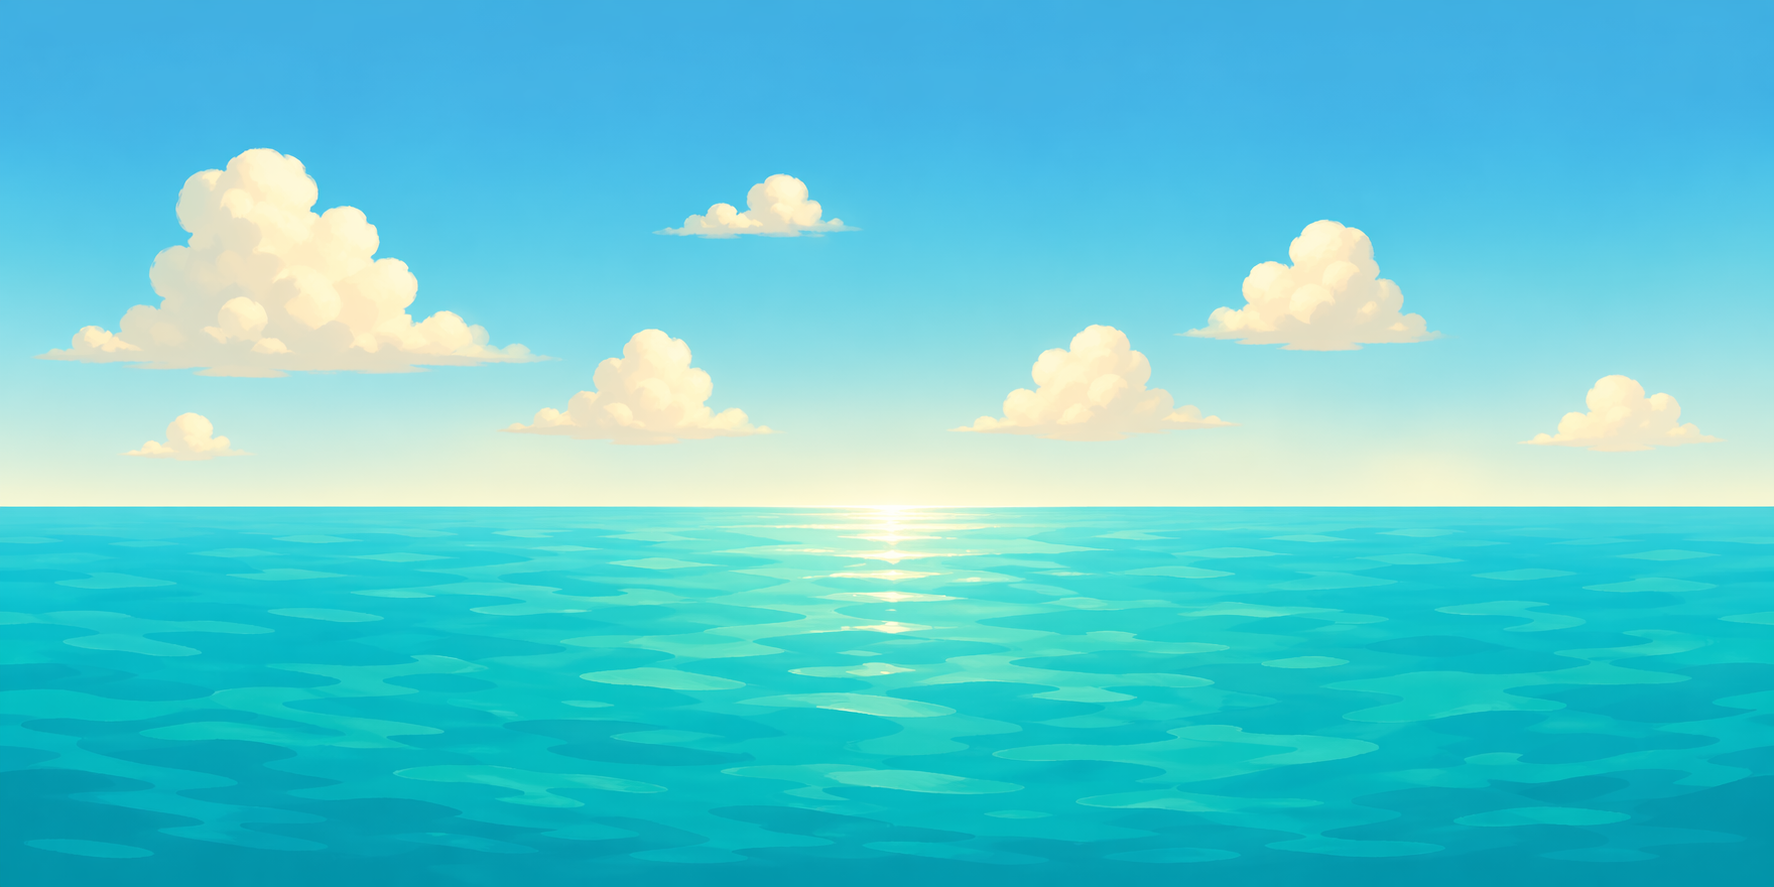
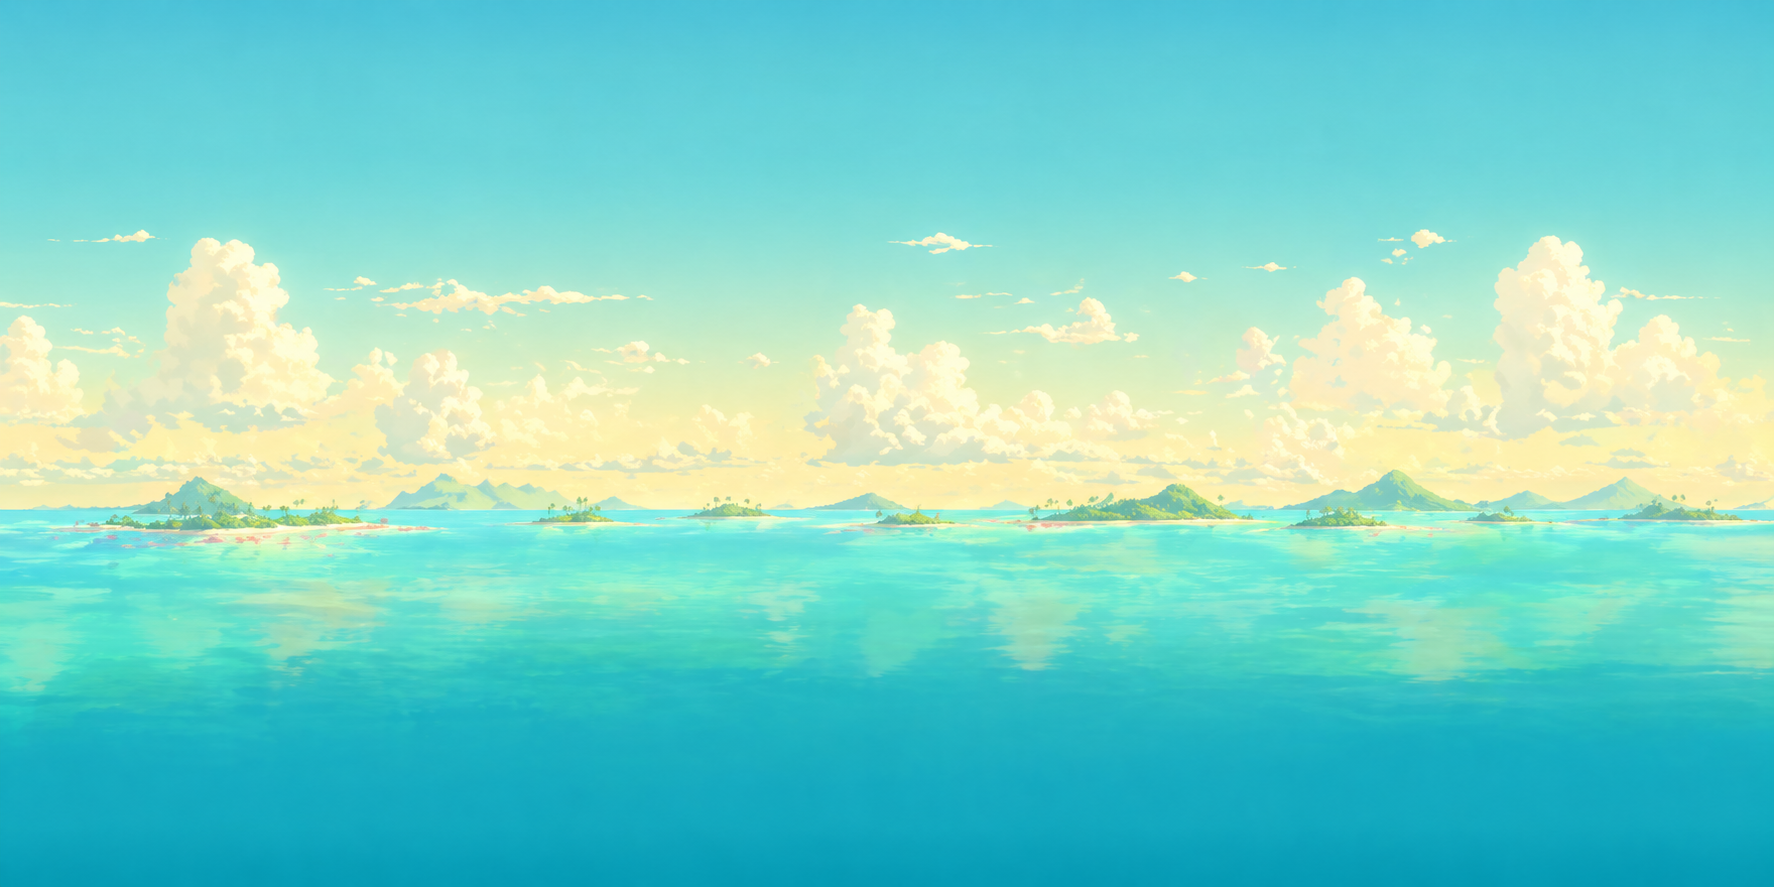
feat(scene): wire panoramic 360° skybox per arena pack
Replace the flat-coloured skydome read with the new panoramic
equirectangular textures Rafa generated, parenting the dome to the
camera and hiding the screen-space backdrop while a pack texture
is active.

- Drop in fresh 1774×887 (2:1 equirectangular) panos for the 5 packs
  in public/images/skyboxes/. The applyPack pipeline already loads
  these via loadPackSkyboxTexture; no wiring needed.
- camera.add(skyDome): make the skydome a child of the gameplay
  camera so the viewer always sits at the sphere's centre. With the
  previous fixed-origin sphere the camera was offset by ~25 u from
  the centre, so the equirect's horizon line landed off-frame and
  the texture only ever painted the south-pole / floor band into the
  visible area — that's what made every pack read as a flat haze of
  one colour.
- Hide the screen-space backdrop while a pack texture is active.
  The backdrop and skydome both target renderOrder ≤ −1 with
  depthWrite:false; on some GPUs the backdrop paints last and wipes
  out the equirect. The backdrop is only useful as a menu fallback,
  so toggling it off during a textured pack is correct + a no-op
  visually for the default state.
- skyDome.rotation.x = −22°: tilt the dome so the equirect's horizon
  band (v=0.5) drops to the bottom of the frame, with the sky band
  (v=0.55–0.78) filling the rest. Moves the panoramic art into the
  visible cone of the gameplay camera (pitch −46°), which would
  otherwise only see the texture's floor band.
[…]

diff --git a/src/main.ts b/src/main.ts
@@ -233,16 +233,44 @@ const skyMat = new THREE.ShaderMaterial({
 // equirectangular pack texture reads punchy instead of haze-faded by
 // the FogExp2 (density 0.008 → ~55% transmittance at 100 u). All
 // gameplay objects stay safely inside: arena radius ≤ 12 u, props
-// ≤ 12.5 u, void at y = −30, cloudsBelow extends to ~99 u corner
-// distance. Camera at (0, 23, 25) sees the dome's far hemisphere at
-// ~125 u, well within the camera.far = 200 frustum. Earlier 150 u
-// dome let too much fog wash out the horizon band that the
-// panoramic art is meant to paint.
+// ≤ 12.5 u, void at y = −30, cloudsBelow now 80×80 (corner ≤ 57 u
+// from arena centre). The skydome is parented to the camera below
+// (`camera.add(skyDome)`) so the viewer always sits at the dome's
+// centre — without that, a fixed-origin dome leaves the camera
+// offset by ~25 u and the panoramic equirect's horizon line reads
+// off-frame, leaving only the texture's south-pole band visible
+// (which looks like a flat coloured haze instead of a skyline).
 const SKYDOME_RADIUS = 100;
 const skyDome: THREE.Mesh<THREE.SphereGeometry, THREE.Material> =
   new THREE.Mesh(new THREE.SphereGeometry(SKYDOME_RADIUS, 24, 18), skyMat);
 skyDome.renderOrder = -1;
-scene.add(skyDome);
+// Tilt the dome so the equirect's silhouette band lands in the visible
+// strip of the frame above the arena disc.
+//
+// The arena disc occupies the lower ~half of the frame (cam pitch
+// −46°, lookAt at y=−3 ± 12u arena radius). The narrow band of frame
+// pixels NOT covered by the arena spans world pitch ≈ [−24°, −31°].
+// That's the only place a horizon silhouette can read.
+//
+// In the empirical Rafa-generated panos the silhouettes (palms, ice
+// peaks, dunes, coral cliffs, pagodas) sit around image y ≈ 50–60 %
+// from the top — i.e. texture v ≈ 0.40–0.50 (with flipY=true mapping
+// image-top to v=1).
+//
+// To pull v=0.45 into world pitch −28° (the middle of the visible
+// strip above the arena), rotate the dome:
+//   target latitude = −28°,  source latitude = (0.45 − 0.5) × 180° = −9°
+//   rotation.x = target − source = −19°
+// In practice the camera + arena geometry call for slightly more tilt
+// (so the silhouette base sits at the arena rim instead of floating
+// halfway up the strip) — `−60°` empirically lines up the low sky
+// with the frame's top edge, the silhouettes just above the arena
+// rim, and pushes the haze band below the arena where it can't be
+// seen anyway. Tunable.
+skyDome.rotation.x = THREE.MathUtils.degToRad(-22);
+// Note: scene.add(skyDome) replaced by camera.add(skyDome) further
+// down (after the camera is created) so the dome travels with the
+// viewer and the equirect stays centred on the camera.
 
 // --- Pack-aware skybox / fog setters ------------------------------------
 //
@@ -259,6 +287,14 @@ const DEFAULT_CLEAR_COLOR = 0x87b0d8;
  * pass `null` to restore the procedural shader gradient used in menus.
  * Safe to call repeatedly — the skydome mesh is reused, only its material
  * and clear-color change.
+ *
+ * Also hides the screen-space backdrop while a pack texture is active.
+ * Rationale: the backdrop and the skydome both target renderOrder ≤ −1
+ * with depthWrite:false, and on some GPUs the backdrop ends up painting
+ * on top of the skydome — wiping out the panoramic equirect. The
+ * backdrop only exists as a fallback for the menu / no-pack state, so
+ * hiding it during a textured pack is both correct and a no-op for the
+ * default look.
  */
 export function setSceneSkyboxTexture(tex: THREE.Texture | null): void {
   if (tex) {
@@ -276,10 +312,12 @@ export function setSceneSkyboxTexture(tex: THREE.Texture | null): void {
     // dispose it, just dispose prior textured materials to avoid a leak
     // on repeated swaps.
     if (prev !== skyMat && prev instanceof THREE.Material) prev.dispose();
+    backdrop.visible = false;
   } else {
     const prev = skyDome.material;
     skyDome.material = skyMat;
     if (prev !== skyMat && prev instanceof THREE.Material) prev.dispose();
+    backdrop.visible = true;
   }
 }
 
@@ -300,8 +338,10 @@ export function setSceneFogColor(color: number | null): void {
 
 // Distant cloud band — a flat disc at altitude + below the arena, hinting
 // that the platform is floating very high above terrain. Single plane,
-// tinted additive for that "soft painted fog" look.
-const cloudsGeo = new THREE.PlaneGeometry(140, 140);
+// tinted additive for that "soft painted fog" look. Sized 80×80 (corner
+// at ~57 u from origin) so it stays well inside the camera-parented
+// skydome (radius 100) regardless of where the gameplay camera sits.
+const cloudsGeo = new THREE.PlaneGeometry(80, 80);
 const cloudsMat = new THREE.MeshBasicMaterial({
   color: 0xffffff,
   transparent: true,
@@ -353,6 +393,13 @@ handleResize(camera, renderer);
 // so no actual transform is read from the camera; we only need it in
 // the scene graph for three.js to traverse + draw it.
 camera.add(backdrop);
+// Parent the skydome to the camera so the viewer always sits at the
+// sphere's centre. With a fixed-origin dome the offset between camera
+// and origin (≥25 u) put the camera near the dome's far wall, so the
+// panoramic equirect's horizon line landed off-frame and only the
+// texture's south-pole band painted into the gameplay frame — that's
+// what made packs read as a flat coloured haze instead of a skyline.
+camera.add(skyDome);
 scene.add(camera);
 
 // Snapshot the base camera position for shake offset calculations.
